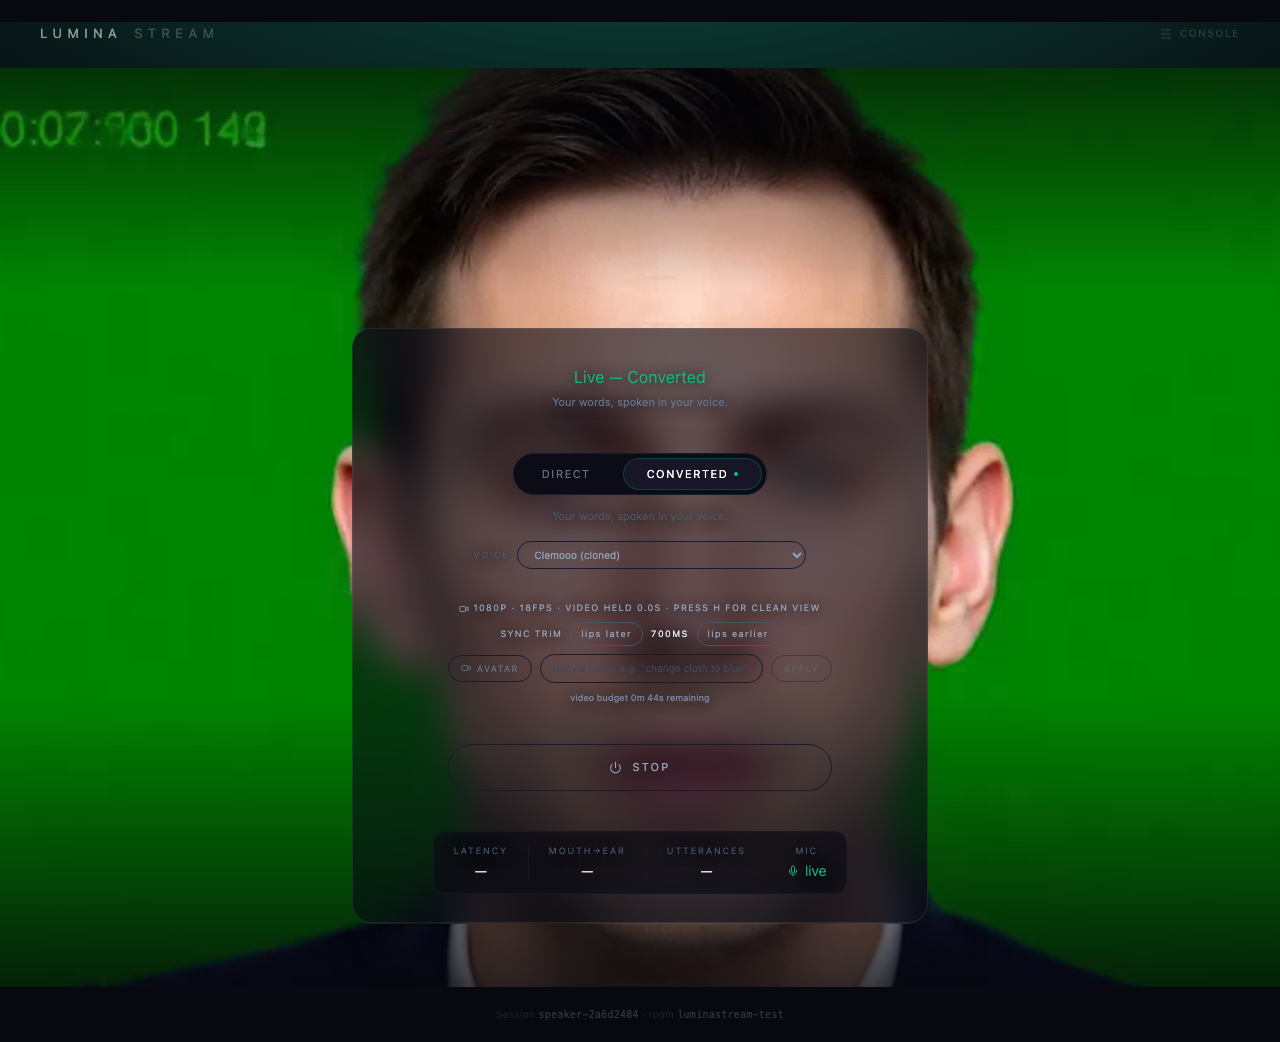
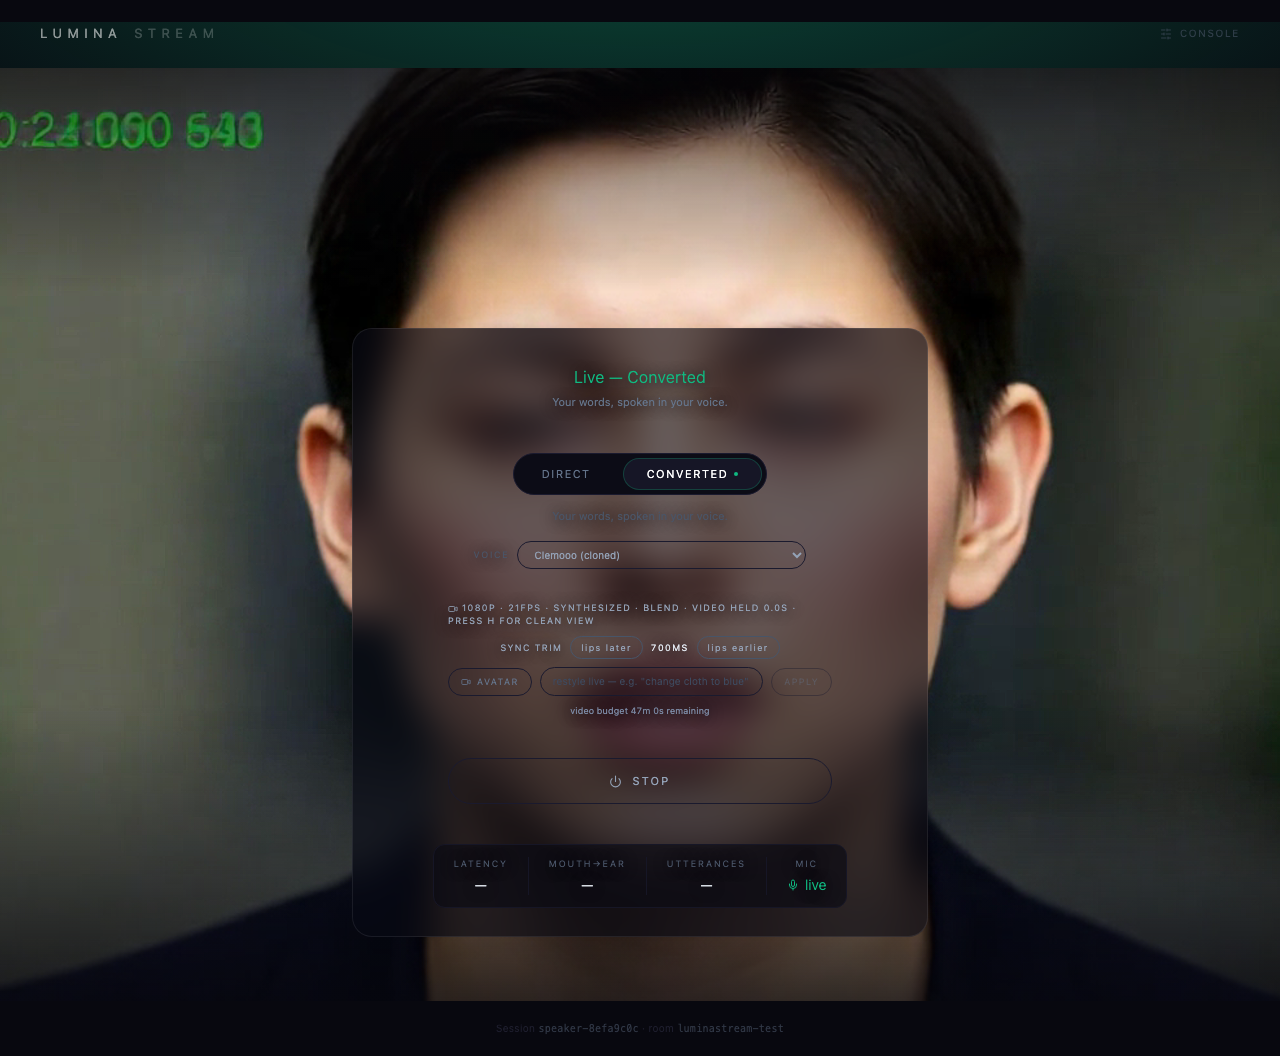
docs(devlog): synthesis proven live — and an incident honestly mis-attributed for one hour
The post-#78 probe failure was a transient Decart-side create outage
(502 vendor_session_failed from the Worker), not the pipeline stage — the
revert opened on the wrong read was closed unmerged once the instrumented
run exonerated the code. Post-recovery probe PASS; the committed evidence
frame is the tier ladder working on production: 1080P · 21FPS ·
SYNTHESIZED · BLEND — headless correctly earns the mid tier, motion
withheld without WebGPU. Lesson logged: one probe gates two failure
domains; a failing probe names a symptom, the diagnosis is earned.

diff --git a/devlog/SESSIONS.md b/devlog/SESSIONS.md
@@ -4,6 +4,25 @@ Full session records, **newest at top**. Terse handover summaries live in `notes
 
 ---
 
+## 5 August 2026 (later) — SYNTHESIS PROVEN LIVE; and an incident honestly mis-attributed for one hour
+
+### The incident, in the order it actually happened
+1. #78 merged and deployed green. The post-deploy render probe FAILED — "the transformed \<video\> must be decoding frames" — deterministically, headless AND headed on real GPU. Read as: the new pipeline stage broke production. **Revert PR #79 opened** per the never-break-production rule.
+2. While #79 sat in review, the instrumented debug run (page console + failing-response capture against production) found the truth: `POST /api/video/session` → **502 `vendor_session_failed`** — the WORKER's create call to Decart failing server-side, both video layers null because the video leg never started. Client-side pipeline code cannot cause a Worker 502. **#78 exonerated.**
+3. Wrangler tail was a dead end (local login is a different Cloudflare account — the Worker deploys via CI's token; dashboard forensics are the CEO's wall). ~1 hour after onset, the identical request path recovered with no code change on either side: transient vendor-side create failures.
+4. Post-recovery, with #78 still deployed: **RENDER PROBE PASS — delivering 1920px wide, billed 5s** — and the evidence frame shows the tier ladder LIVE: **"1080P · 21FPS · SYNTHESIZED · BLEND · VIDEO HELD 0.0S"**. The GPU-less headless probe machine was granted exactly the mid tier the directive prescribes (motion correctly withheld — no WebGPU; blend built + benched under budget). First real-world proof the capability probe grades hardware honestly.
+5. **#79 closed UNMERGED** with the evidence. Nothing was reverted.
+
+### Lessons, named
+- **Correlation with a deploy is not causation by the deploy.** The one probe was gating two failure domains (our pipeline AND the vendor leg), and a vendor outage landing minutes after a merge wore the merge's face. The tell I initially missed: the failure screenshot's state was consistent with NO stream at all, not a broken transform.
+- The 4 Aug legibility arc's lesson inverted: there the probe's evidence frame caught what assertions missed; here the assertion fired for a cause outside the code under test. **A failing probe names a SYMPTOM; the diagnosis still has to be earned** — the revert-first reflex was correct under uncertainty, and closing it unmerged once evidence arrived was equally correct.
+- Also swept up: the dev-budget bank had drained to 29s (the probe's own preflight wall caught it — working as designed); ledger reset to 0/3000 via the admin API before the re-runs.
+
+### Where synthesis stands
+Live on production, all three tiers reachable, governor armed. The blend tier is proven end-to-end by the probe. The motion tier's first real grant happens on hardware with WebGPU — the CEO's session readout is the instrument: her fidelity line will name her tier and her fps.
+
+---
+
 ## 5 August 2026 — ADAPTIVE FRAME SYNTHESIS: the tier ladder, built to the directive
 
 **Task (CEO, verbatim key parts):** "Client-Side Synthesis Directive: Multi-Tier Adaptive Scaling ... We cannot assume every user will be on high-end hardware ... Device Capability Benchmark ... High-End: full WebGPU motion-compensated interpolation (50fps target). Mid-Range: fall back to lightweight midpoint blending. Low-End/Unsupported: bypass synthesis entirely ... Our rule remains: A/V Sync and low latency take precedence over frame synthesis. Proceed with the build using this progressive fallback model."

diff --git a/notes.md b/notes.md
@@ -2,6 +2,13 @@
 
 Running summary of every working session, **newest entry first**. Each entry: what was done, which files changed, how it was verified, and the next step. This file is the standing summary channel — check the top entry for the most recent work.
 
+## 5 August 2026 (later) — synthesis PROVEN LIVE; incident mis-attributed 1hr, resolved honestly
+
+- Post-#78 probe failure was NOT #78: `POST /api/video/session` 502 `vendor_session_failed` — transient Decart-side create outage (~1hr). Revert PR #79 opened on the wrong read, **closed unmerged** once the instrumented run exonerated the code.
+- Post-recovery probe **PASS**: evidence frame reads **1080P · 21FPS · SYNTHESIZED · BLEND** — the tier ladder live; headless (no WebGPU) correctly earns blend, motion withheld. Dev ledger was at 29s (wall worked); reset to 0/3000.
+- Lesson: one probe gates two failure domains (pipeline + vendor leg); a failing probe names a symptom, the diagnosis is earned. Wrangler tail unusable locally (different CF account — dashboard is her wall).
+- **Next:** CEO session → her readout names her tier (motion expected on her hardware) + fps → the 50fps verdict.
+
 ## 5 August 2026 — adaptive frame synthesis shipped (CEO tier directive)
 
 - **Pipeline canon now 5 stages:** receive → align → **synthesize** → upscale → present (after align: queue math; before upscale: half the pixels).
